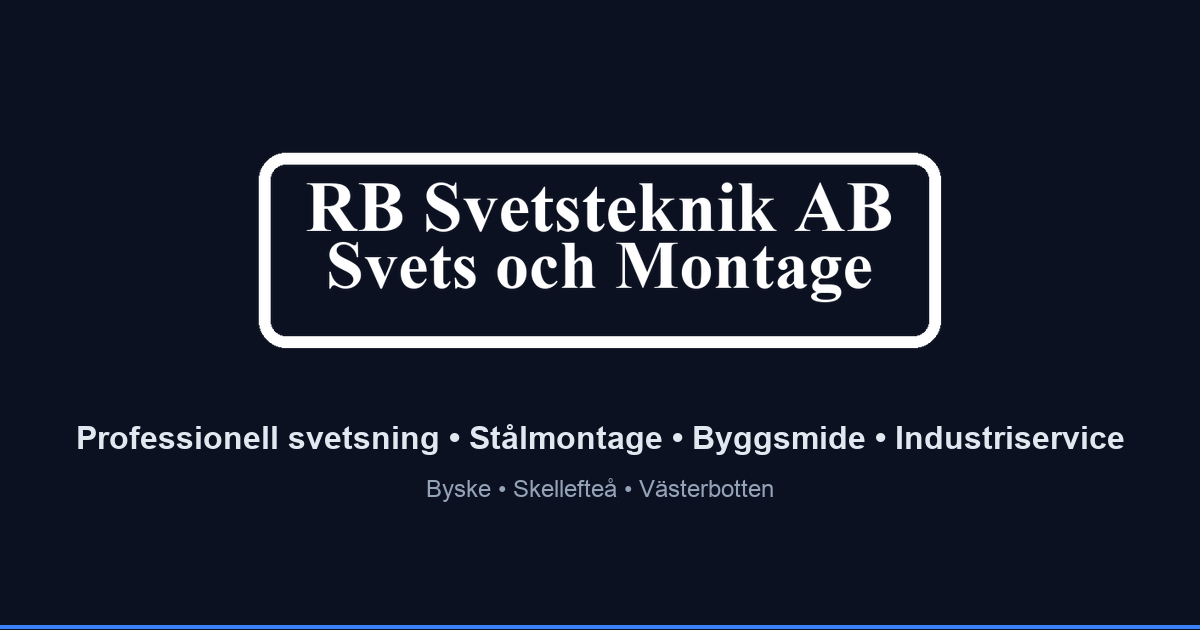
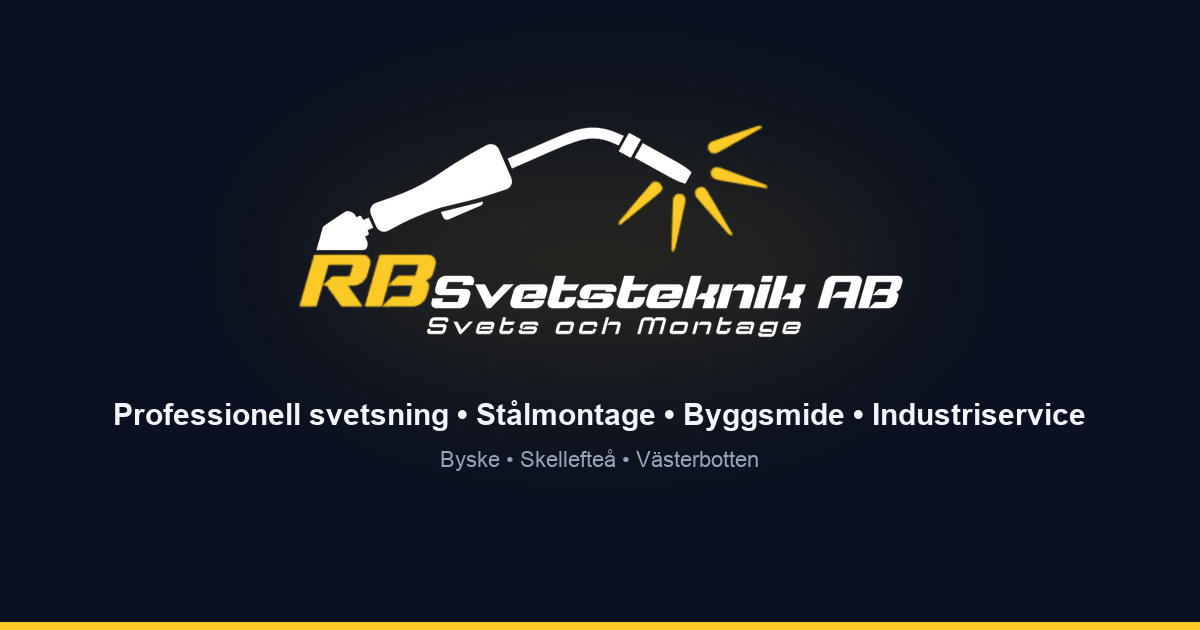
hehjds

diff --git a/src/pages/Home.tsx b/src/pages/Home.tsx
@@ -184,7 +184,7 @@ export default function Home() {
                   transform: 'translate(-50%, -50%)',
                   width: 'clamp(320px, 45vw, 540px)',
                   height: 'clamp(180px, 26vw, 300px)',
-                  background: 'radial-gradient(ellipse, rgba(255, 255, 255, 0.12) 0%, rgba(255, 255, 255, 0.03) 50%, transparent 75%)',
+                  background: 'radial-gradient(ellipse, rgba(252, 202, 38, 0.16) 0%, rgba(255, 255, 255, 0.04) 50%, transparent 75%)',
                   borderRadius: '50%',
                   pointerEvents: 'none',
                   filter: 'blur(35px)',
